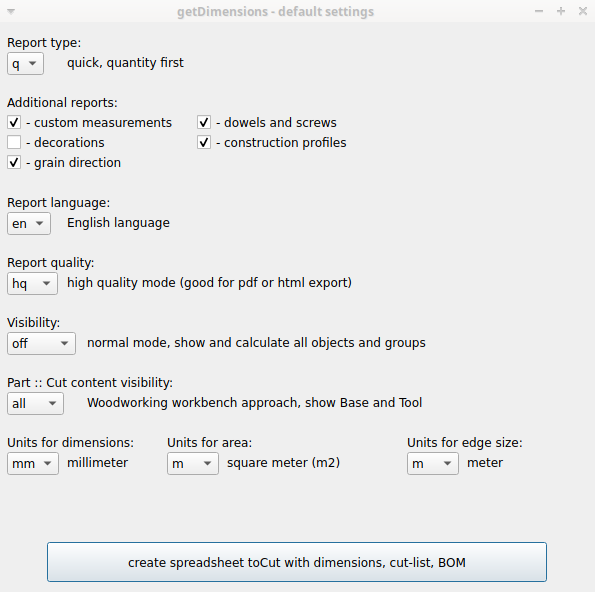
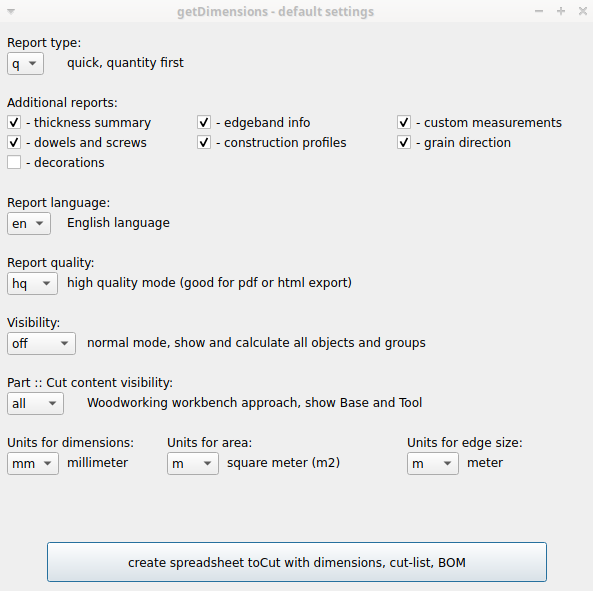
thickness & edgeband option

diff --git a/getDimensions.py b/getDimensions.py
@@ -115,6 +115,8 @@ sARM = True       # mounting
 sARP = True       # profiles
 sARD = False      # decoration
 sARGD = True      # grain direction
+sATS = True       # thickness summary
+sAEI = True       # edgeband info
 
 
 # ###################################################################################################################
@@ -320,29 +322,37 @@ def showQtGUI():
 			self.ardL = QtGui.QLabel(translate("getDimensions", "Additional reports:"), self)
 			self.ardL.move(10, vLine + 3)
 			
+			self.atsCB = QtGui.QCheckBox(translate('getDimensions', '- thickness summary'), self)
+			self.atsCB.setCheckState(QtCore.Qt.Checked)
+			self.atsCB.move(10, vLine + vLineNextRow)
+			
+			self.aeiCB = QtGui.QCheckBox(translate('getDimensions', '- edgeband info'), self)
+			self.aeiCB.setCheckState(QtCore.Qt.Checked)
+			self.aeiCB.move(200, vLine + vLineNextRow)
+			
 			self.armeCB = QtGui.QCheckBox(translate('getDimensions', '- custom measurements'), self)
 			self.armeCB.setCheckState(QtCore.Qt.Checked)
-			self.armeCB.move(10, vLine + vLineNextRow)
+			self.armeCB.move(400, vLine + vLineNextRow)
+
+			vLine = vLine + vLineNextRow
 
 			self.armCB = QtGui.QCheckBox(translate('getDimensions', '- dowels and screws'), self)
 			self.armCB.setCheckState(QtCore.Qt.Checked)
-			self.armCB.move(200, vLine + vLineNextRow)
+			self.armCB.move(10, vLine + vLineNextRow)
+			
+			self.arpCB = QtGui.QCheckBox(translate('getDimensions', '- construction profiles'), self)
+			self.arpCB.setCheckState(QtCore.Qt.Checked)
+			self.arpCB.move(200, vLine + vLineNextRow)
+			
+			self.argdCB = QtGui.QCheckBox(translate('getDimensions', '- grain direction'), self)
+			self.argdCB.setCheckState(QtCore.Qt.Checked)
+			self.argdCB.move(400, vLine + vLineNextRow)
 			
 			vLine = vLine + vLineNextRow
 			
 			self.ardCB = QtGui.QCheckBox(translate('getDimensions', '- decorations'), self)
 			self.ardCB.setCheckState(QtCore.Qt.Unchecked)
 			self.ardCB.move(10, vLine + vLineNextRow)
-			
-			self.arpCB = QtGui.QCheckBox(translate('getDimensions', '- construction profiles'), self)
-			self.arpCB.setCheckState(QtCore.Qt.Checked)
-			self.arpCB.move(200, vLine + vLineNextRow)
-			
-			vLine = vLine + vLineNextRow
-			
-			self.argdCB = QtGui.QCheckBox(translate('getDimensions', '- grain direction'), self)
-			self.argdCB.setCheckState(QtCore.Qt.Checked)
-			self.argdCB.move(10, vLine + vLineNextRow)
 			
 			# ############################################################################
 			# languages
@@ -714,6 +724,7 @@ def showQtGUI():
 	if form.result == userOK:
 		global sEColor
 		global sARME, sARM, sARP, sARD, sARGD
+		global sATS, sAEI
 
 		# set edgeband code from text form
 		sEColor = form.ecti.text()
@@ -747,6 +758,18 @@ def showQtGUI():
 			sARGD = True
 		else:
 			sARGD = False
+
+		# thickness summary
+		if form.atsCB.isChecked():
+			sATS = True
+		else:
+			sATS = False
+			
+		# edgeband info
+		if form.aeiCB.isChecked():
+			sAEI = True
+		else:
+			sAEI = False
 
 		gExecute = "yes"
 
@@ -2836,6 +2859,9 @@ def setViewQ(iCaller="setViewQ"):
 	# thickness part - depends on view columns order, so better here
 	# ########################################################
 
+	if sATS == False:
+		return
+
 	# add summary title for thickness
 	vCell = "A" + str(gSheetRow) + ":G" + str(gSheetRow)
 	gSheet.mergeCells(vCell)
@@ -3027,6 +3053,9 @@ def setViewN(iCaller="setViewN"):
 	# thickness part - depends on view columns order, so better here
 	# ########################################################
 
+	if sATS == False:
+		return
+
 	# add summary title for thickness
 	vCell = "A" + str(gSheetRow) + ":G" + str(gSheetRow)
 	gSheet.mergeCells(vCell)
@@ -3119,6 +3148,9 @@ def setViewG(iCaller="setViewG"):
 	# ########################################################
 	# thickness part - depends on view columns order, so better here
 	# ########################################################
+
+	if sATS == False:
+		return
 
 	# add summary title for thickness
 	vCell = "A" + str(gSheetRow) + ":G" + str(gSheetRow)
@@ -3354,6 +3386,9 @@ def setViewE(iCaller="setViewE"):
 	# ########################################################
 	# thickness part - depends on view columns order, so better here
 	# ########################################################
+
+	if sATS == False:
+		return
 
 	# add summary title for thickness
 	vCell = "A" + str(gSheetRow) + ":D" + str(gSheetRow)
@@ -3700,6 +3735,9 @@ def setViewD(iCaller="setViewD"):
 	# ########################################################
 	# thickness part - depends on view columns order, so better here
 	# ########################################################
+
+	if sATS == False:
+		return
 
 	# add summary title for thickness
 	vCell = "A" + str(gSheetRow) + ":D" + str(gSheetRow)
@@ -4139,27 +4177,37 @@ def selectView(iCaller="selectView"):
 	# main report - quantity
 	if sLTF == "q":
 		setViewQ(iCaller)
-		setViewEdge(iCaller)
+		
+		if sAEI == True:
+			setViewEdge(iCaller)
 
 	# main report - name
 	if sLTF == "n":
 		setViewN(iCaller)
-		setViewEdge(iCaller)
+		
+		if sAEI == True:
+			setViewEdge(iCaller)
 
 	# main report - group
 	if sLTF == "g":
 		setViewG(iCaller)
-		setViewEdge(iCaller)
+		
+		if sAEI == True:
+			setViewEdge(iCaller)
 
 	# main report - edge extended
 	if sLTF == "e":
 		setViewE(iCaller)
-		setViewEdge(iCaller)
+		
+		if sAEI == True:
+			setViewEdge(iCaller)
 
 	# main report - detailed holes
 	if sLTF == "d":
 		setViewD(iCaller)
-		setViewEdge(iCaller)
+		
+		if sAEI == True:
+			setViewEdge(iCaller)
 
 	# main report - constraints (custom report)
 	if sLTF == "c":
